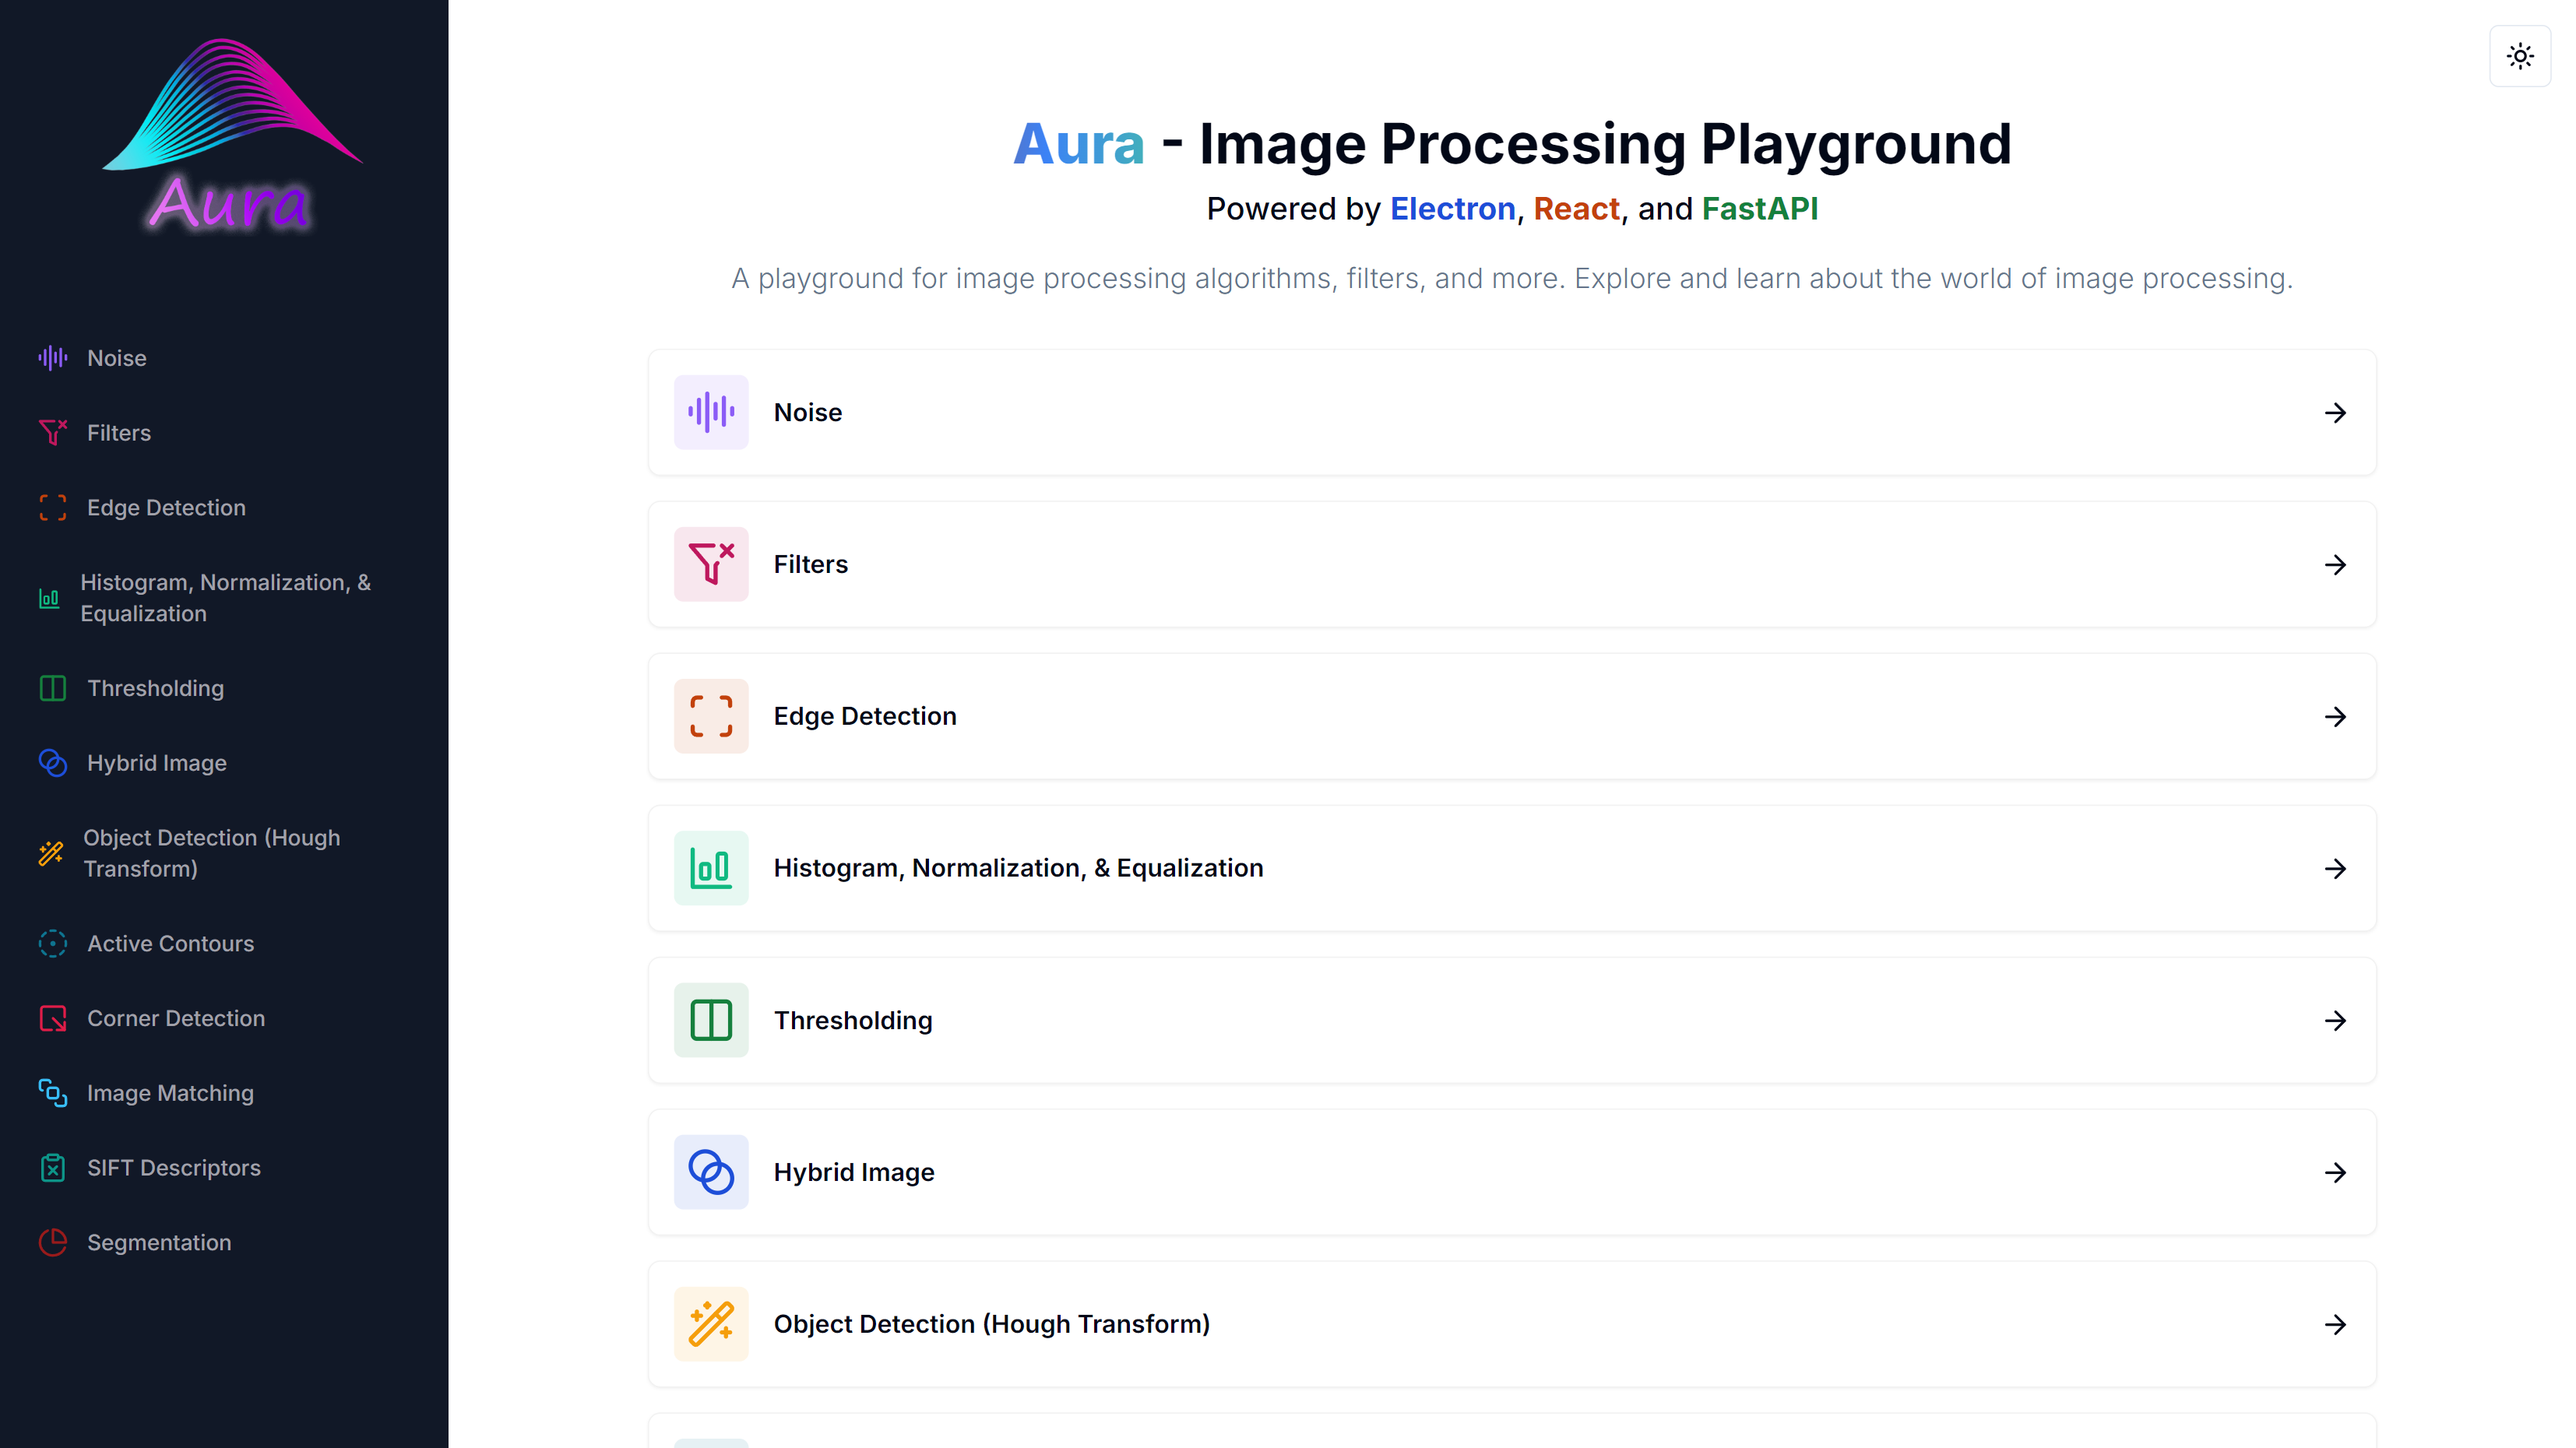
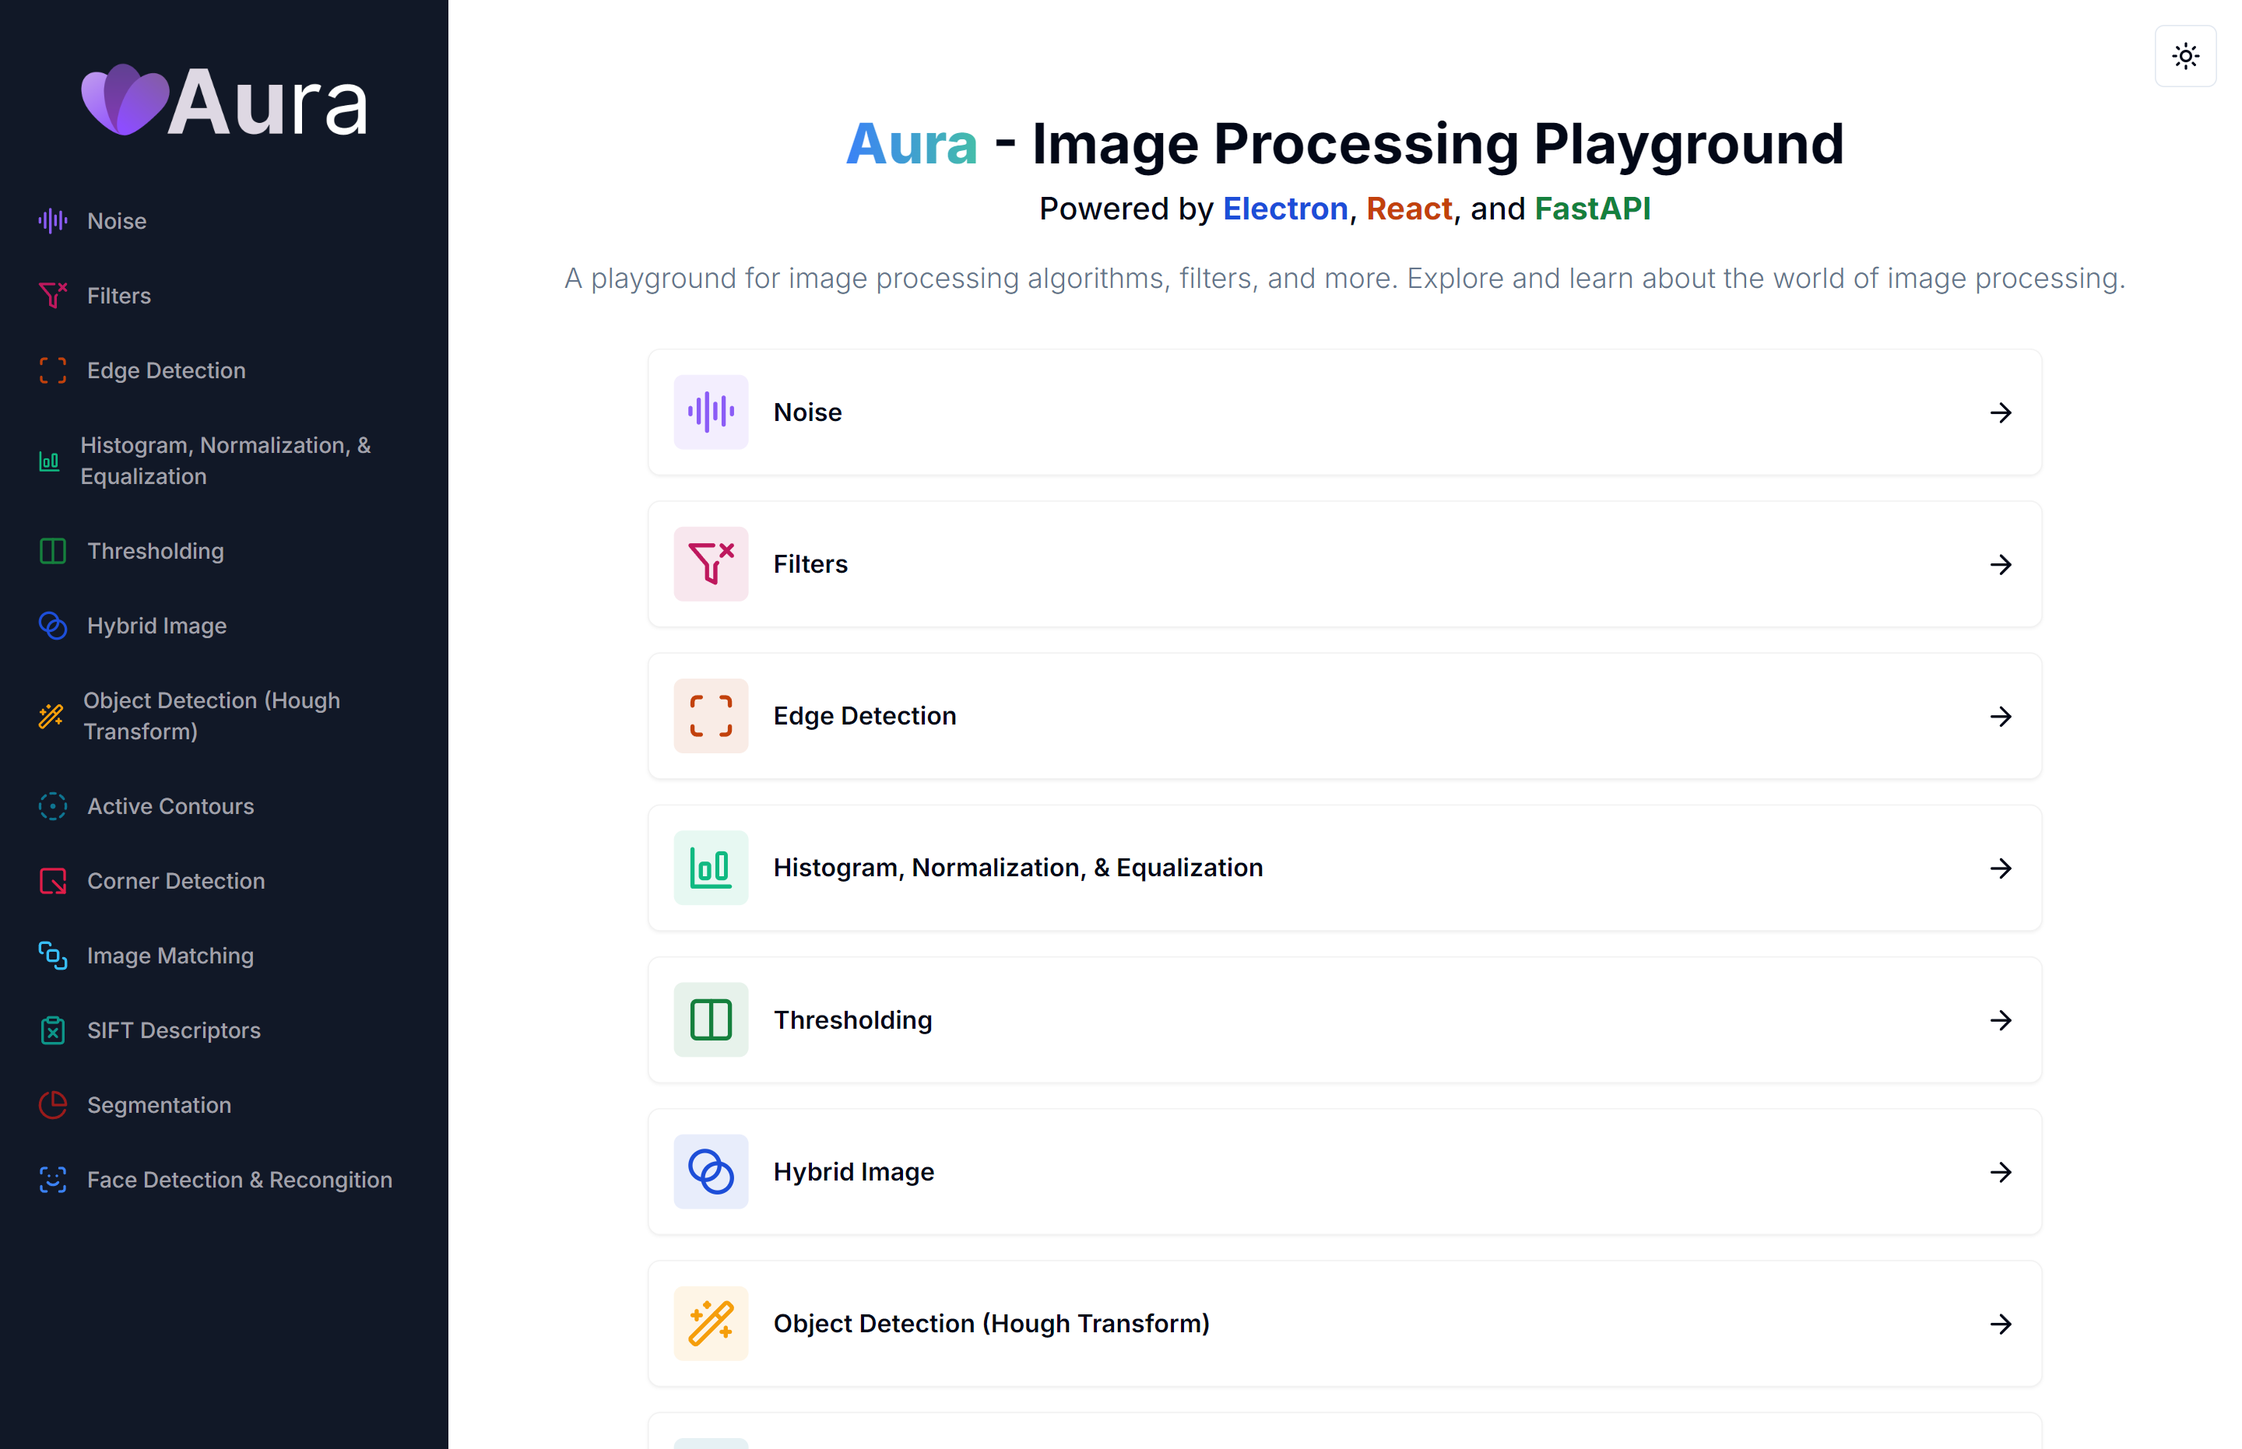
Highlight selected route + New mockup & update README

diff --git a/client/src/renderer/src/components/Sidebar.tsx b/client/src/renderer/src/components/Sidebar.tsx
@@ -1,4 +1,4 @@
-import { Link } from '@tanstack/react-router';
+import { Link, useRouterState } from '@tanstack/react-router';
 
 import { routes } from '@renderer/lib/constants';
 import { cn } from '@renderer/lib/utils';
@@ -6,6 +6,8 @@ import { cn } from '@renderer/lib/utils';
 import logo from '@renderer/assets/logo.png';
 
 export default function Sidebar() {
+  const router = useRouterState();
+
   return (
     <div className="flex flex-col space-y-4 py-4 h-full bg-[#111827] text-white">
       <div className="px-3 py-2 flex-1">
@@ -20,7 +22,10 @@ export default function Sidebar() {
             <Link
               to={route.href}
               key={route.href}
-              className="text-sm group flex p-3 w-full justify-start font-medium cursor-pointer hover:text-white hover:bg-white/10 transition-all rounded-lg text-zinc-400"
+              className={cn(
+                'text-sm group flex p-3 w-full justify-start font-medium cursor-pointer hover:text-white hover:bg-white/10 transition-all rounded-lg text-zinc-400',
+                router.location.pathname === route.href && 'bg-white/10'
+              )}
             >
               <div className="flex items-center flex-1">
                 <route.icon className={cn('h-5 w-5 mr-3', route.color)} />

diff --git a/README.md b/README.md
@@ -28,11 +28,20 @@ Aura comes with a wide range of features:
 
 - **Image Processing**: Aura can apply grayscale, normalization, and equalization to images, and it provides a histogram for visualizing the image's color distribution.
 
-- **Thresholding**: Aura supports both global and local thresholding, allowing users to adjust the intensity levels in an image to separate objects from the background.
+- **Thresholding**: Aura supports both global and local thresholding, allowing users to adjust the intensity levels in an image to separate objects from the background. It includes Otsu, Optimal, and Spectral thresholding methods.
 
 - **Hough Transform**: Aura can perform Hough Transform for line, circles, and ellipses detection.
 
 - **Active Contouring**: Aura supports active contouring for calculating perimeter and area of detected shapes.
+
+- **Corner Detection**: Aura can detect corners in an image using Harris and Lambda operators.
+
+- **SIFT Descriptors**: Aura uses Scale-Invariant Feature Transform (SIFT) descriptors to detect keypoints and apply image matching using Sum of Squared Differences (SSD) and Normalized Cross Correlation (NCC).
+
+- **Image Segmentation**: Aura supports various image segmentation techniques, including K-Means Clustering, Mean Shift Segmentation, Agglomerative Segmentation, and Region Growing Segmentation.
+
+- **Face Detection and Recognition**: Aura can detect faces in an image and recognize them using Principal Component Analysis (PCA) and Support Vector Machine (SVM) classifier.
+
 
 These features make Aura a versatile tool for a wide range of image processing tasks.
 
@@ -93,6 +102,14 @@ This project leverages a variety of modern technologies to deliver a robust and 
   - FastAPI
   - OpenCV
   - NumPy
+- **Landing Page**
+  - React.js
+  - Next.js
+  - TypeScript
+  - Tailwind CSS
+  - Framer Motion
+  - Three.js
+  - React Three Fiber
 
 
 ## Contributors
